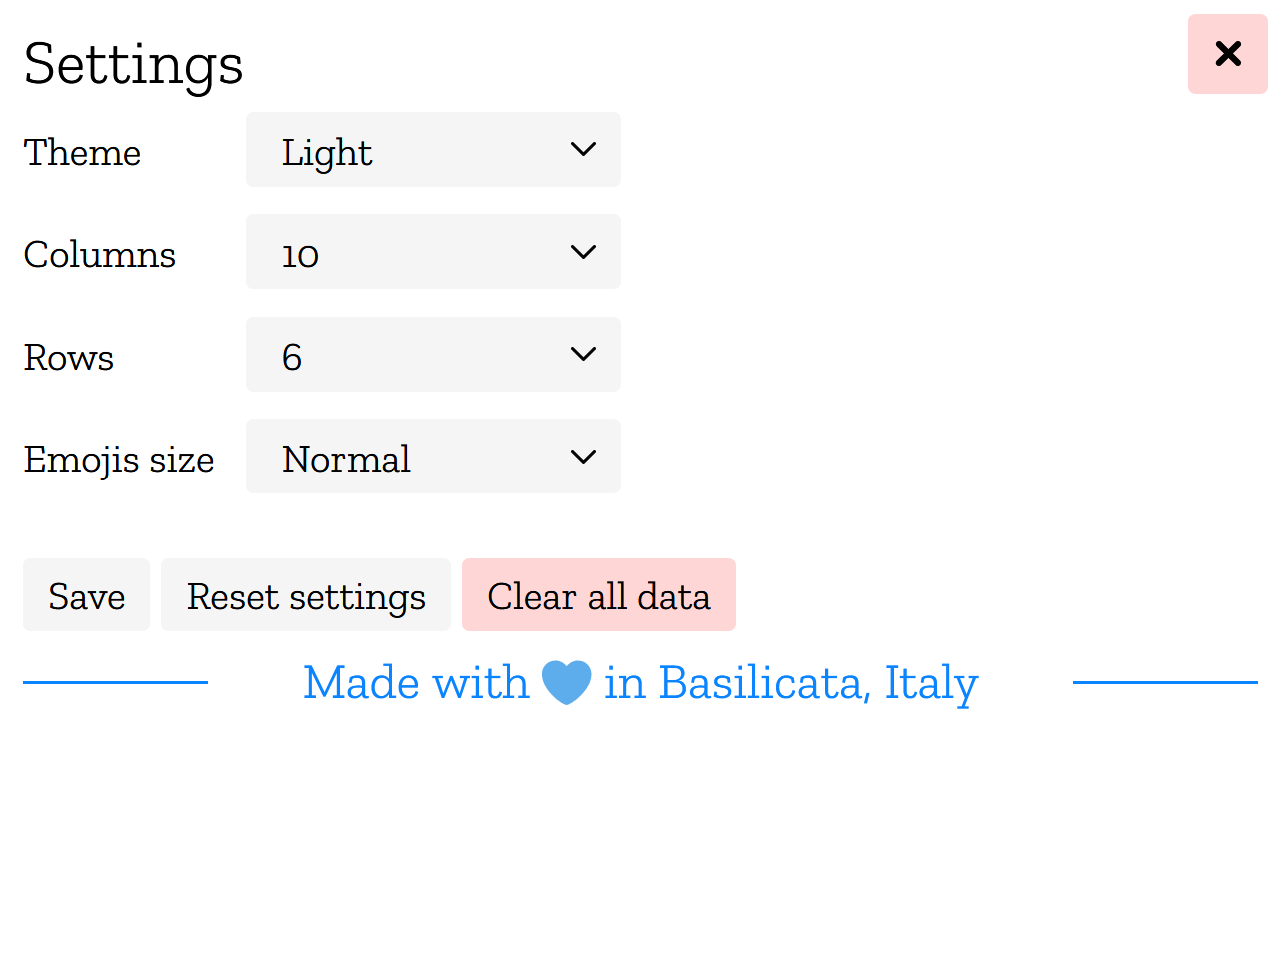
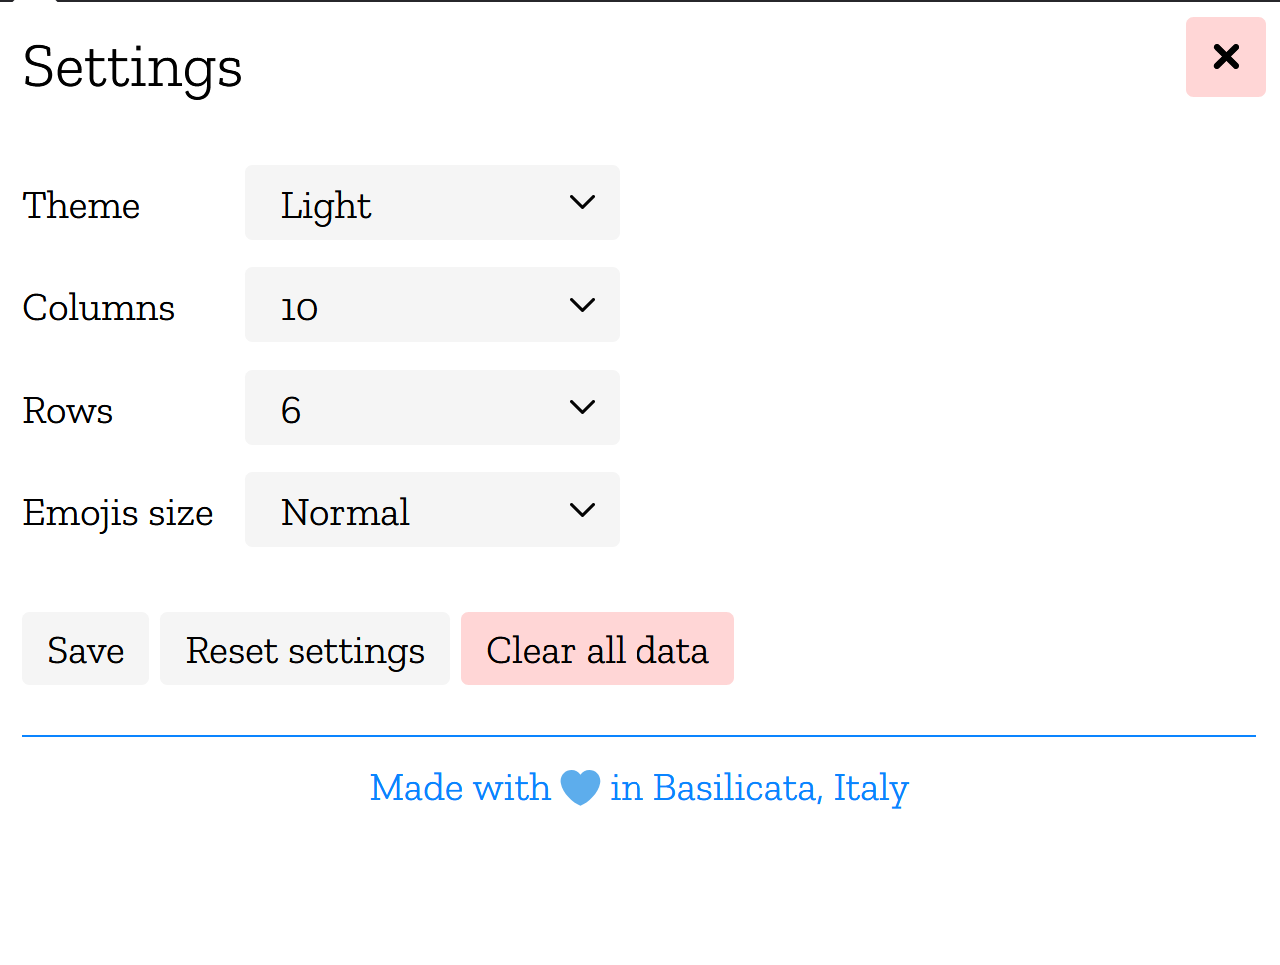
3.2

diff --git a/popup.html b/popup.html
@@ -26,56 +26,58 @@ Created by Saverio Morelli - saveriomorelli.com
     <div id="settings-section">
         <input type="button" id="hide-settings-button" value="×" class="button font-size-25 red-button">
         <h1 id="settings-title">Settings</h1>
-        <div class="subsection-settings">
-            <span class="title-subsection-settings">Theme</span>
-            <select class="select" id="theme-selected">
-                <option selected>Light</option>
-                <option>Dark</option>
-            </select>
-        </div>
-        <div class="subsection-settings">
-            <span class="title-subsection-settings">Columns</span>
-            <select class="select" id="columns-selected">
-                <option>8</option>
-                <option>9</option>
-                <option>10</option>
-                <option>11</option>
-                <option>12</option>
-                <option>13</option>
-                <option>14</option>
-            </select>
-        </div>
-        <div class="subsection-settings">
-            <span class="title-subsection-settings">Rows</span>
-            <select class="select" id="rows-selected">
-                <option>4</option>
-                <option>5</option>
-                <option>6</option>
-                <option>7</option>
-                <option>8</option>
-                <option>9</option>
-                <option>10</option>
-            </select>
-        </div>
-        <div class="subsection-settings">
-            <span class="title-subsection-settings">Emojis size</span>
-            <select class="select" id="emojis-size-selected">
-                <option>Very small</option>
-                <option>Small</option>
-                <option>Normal</option>
-                <option>Big</option>
-                <option>Very Big</option>
-            </select>
-        </div>
-        <div class="margin-top-20"></div>
-        <input type="button" value="Save" class="button font-zillaslab font-size-16" id="save-data-settings">
-        <input type="button" value="Reset settings" class="button font-zillaslab font-size-16" id="reset-data-settings">
-        <input type="button" value="Clear all data" class="button font-zillaslab font-size-16 red-button"
-               id="clear-data-settings">
-        <div class="margin-top-20">
-            <hr id="made-in-basilicata-hr-settings">
-            <div id="made-in-basilicata-settings" class="font-color-lightblue">
-                Made with <span class="font-twemoji">💙</span> in Basilicata, Italy
+        <div id="settings-section-content">
+            <div class="subsection-settings">
+                <span class="title-subsection-settings">Theme</span>
+                <select class="select" id="theme-selected">
+                    <option selected>Light</option>
+                    <option>Dark</option>
+                </select>
+            </div>
+            <div class="subsection-settings">
+                <span class="title-subsection-settings">Columns</span>
+                <select class="select" id="columns-selected">
+                    <option>8</option>
+                    <option>9</option>
+                    <option>10</option>
+                    <option>11</option>
+                    <option>12</option>
+                    <option>13</option>
+                    <option>14</option>
+                </select>
+            </div>
+            <div class="subsection-settings">
+                <span class="title-subsection-settings">Rows</span>
+                <select class="select" id="rows-selected">
+                    <option>4</option>
+                    <option>5</option>
+                    <option>6</option>
+                    <option>7</option>
+                    <option>8</option>
+                    <option>9</option>
+                    <option>10</option>
+                </select>
+            </div>
+            <div class="subsection-settings">
+                <span class="title-subsection-settings">Emojis size</span>
+                <select class="select" id="emojis-size-selected">
+                    <option>Very small</option>
+                    <option>Small</option>
+                    <option>Normal</option>
+                    <option>Big</option>
+                    <option>Very Big</option>
+                </select>
+            </div>
+            <div class="margin-top-20"></div>
+            <input type="button" value="Save" class="button font-zillaslab font-size-16" id="save-data-settings">
+            <input type="button" value="Reset settings" class="button font-zillaslab font-size-16"
+                   id="reset-data-settings">
+            <input type="button" value="Clear all data" class="button font-zillaslab font-size-16 red-button"
+                   id="clear-data-settings">
+            <div class="margin-top-20">
+                <div id="made-in-basilicata-settings" class="font-color-lightblue">
+                    Made with <span class="font-twemoji">💙</span> in Basilicata, Italy
+                </div>
             </div>
         </div>
     </div>

diff --git a/css/style.css b/css/style.css
@@ -351,6 +351,19 @@ div#settings-section {
     text-align: left;
 }
 
+#settings-section-content {
+    overflow: auto;
+    position: absolute;
+    top: 50px;
+    bottom: 0px;
+    right: 0px;
+    left: 0px;
+    padding: 10px;
+    box-sizing: border-box;
+    height: auto;
+    width: auto;
+}
+
 #clear-data-settings, #save-data-settings, #reset-data-settings {
     width: auto;
     padding: 5px;
@@ -367,23 +380,13 @@ div {
 #made-in-basilicata-settings {
     width: auto;
     text-align: center;
-    font-size: 20px;
-    width: auto;
-    margin-right: 15%;
-    margin-left: 15%;
-    background-color: inherit;
-}
-
-#made-in-basilicata-hr-settings {
-    height: 1px;
-    width: 100%;
+    font-size: 16px;
     margin: 0px;
-    padding: 0px;
-    border: 0px solid transparent;
-    background-color: #0a84ff;
-    margin-bottom: -13px;
+    background-color: inherit;
+    border-top: 1px solid #0a84ff;
+    box-sizing: border-box;
+    padding: 10px;
 }
-
 
 .title-subsection-settings {
     font-size: 16px;
